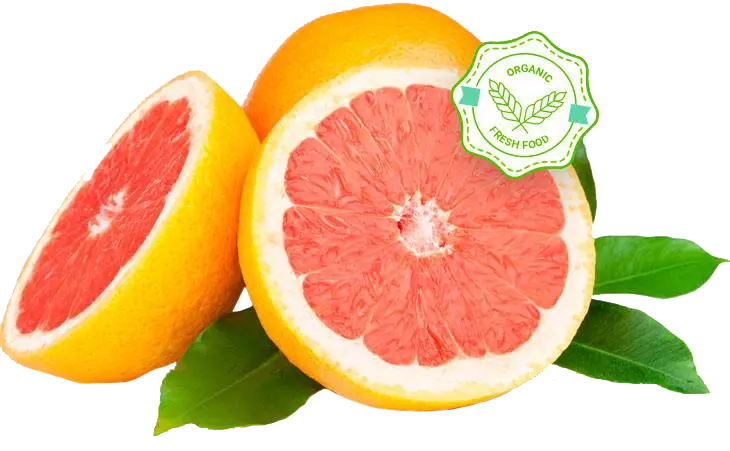
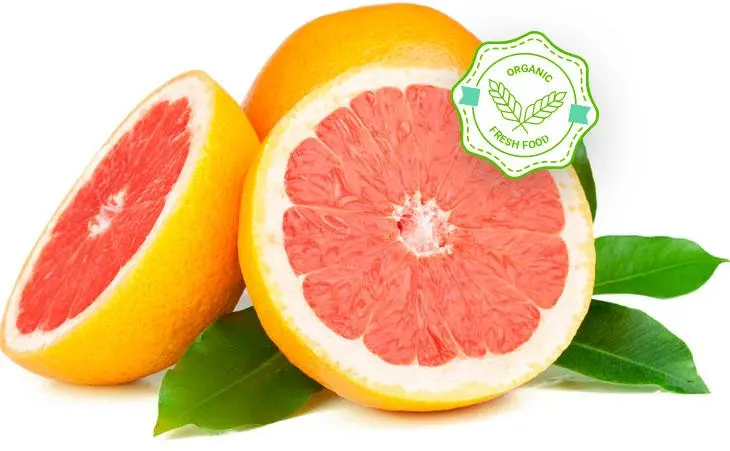
Buttons position correct

diff --git a/css/main.css b/css/main.css
@@ -1,9 +1,9 @@
 /* Fonts */
-@import 'fonts.css';
+@import "fonts.css";
 /* Variables */
-@import 'variables.css';
+@import "variables.css";
 /* Base*/
-@import 'base.css';
+@import "base.css";
 
 /* Styles */
 
@@ -37,7 +37,7 @@
 }
 
 .nav-bar-item::before {
-  content: '';
+  content: "";
   width: 6px;
   height: 6px;
   border-radius: 50%;
@@ -47,17 +47,17 @@
   left: 50%;
   transform: translateX(-50%);
   opacity: 0;
-  transition: .1s;
+  transition: 0.1s;
 }
 
 .nav-bar-item:hover::before,
 .nav-bar-item:focus::before {
   opacity: 1;
-  transition: .1s;
+  transition: 0.1s;
 }
 
 .nav-cart {
-  background: url('../img/nav-cart.png') 0 0/ cover no-repeat;
+  background: url("../img/nav-cart.png") 0 0 / cover no-repeat;
   width: 29px;
   height: 26px;
   border: none;
@@ -83,7 +83,6 @@
   display: flex;
   justify-content: center;
   align-items: center;
-
 }
 
 .nav-summ {
@@ -94,7 +93,7 @@
 }
 
 .nav-burger {
-  background: url('../img/nav-burger.png') 0 0 / cover no-repeat;
+  background: url("../img/nav-burger.png") 0 0 / cover no-repeat;
   width: 28px;
   height: 26px;
   border: none;
@@ -133,7 +132,7 @@
 }
 
 .hero-left-text::before {
-  content: '';
+  content: "";
   width: 70px;
   height: 1px;
   background-color: var(--colorDetails);
@@ -146,7 +145,7 @@
 
 .hero-picture::after {
   position: absolute;
-  content: '100% Guarantee';
+  content: "100% Guarantee";
   font-size: 1rem;
   font-style: italic;
   bottom: 12px;
@@ -177,14 +176,15 @@
   color: var(--colorHeroButton);
   text-transform: uppercase;
   font-weight: normal;
-  background: linear-gradient(to bottom, #ffffff 0%, #ffffff 100%) padding-box, linear-gradient(to top, #4FC3D8 0%, #B3D597 100%) border-box;
+  background: linear-gradient(to bottom, #ffffff 0%, #ffffff 100%) padding-box,
+    linear-gradient(to top, #4fc3d8 0%, #b3d597 100%) border-box;
   border: 5px solid transparent;
   cursor: pointer;
 }
 
 .hero-btn:hover,
 .hero-btn:focus {
-  background: linear-gradient(to top, #4FC3D8 0%, #B3D597 100%) border-box;
+  background: linear-gradient(to top, #4fc3d8 0%, #b3d597 100%) border-box;
 }
 
 .hero-btn-text-accent {
@@ -203,7 +203,7 @@
 }
 
 .hero-social::after {
-  content: '';
+  content: "";
   width: 1px;
   height: 70px;
   background-color: var(--colorDetails);
@@ -216,13 +216,13 @@
 }
 
 .hero-slider-slide {
-  background: url('../img/hero-slider.jpg') center center / cover no-repeat;
+  background: url("../img/hero-slider.jpg") center center / cover no-repeat;
   padding: 198px 0 330px 0;
   position: relative;
 }
 
 .hero-slider-slide::after {
-  content: '';
+  content: "";
   width: 250px;
   height: 40px;
   background-color: var(--colorBackground);
@@ -242,7 +242,6 @@
   z-index: 10;
   width: 100%;
 }
-
 
 .hero-slider-navigation {
   height: auto;
@@ -267,11 +266,12 @@
 
 .swiper-button-prev {
   border-radius: 999px 0 0 999px;
-  margin-right: 1px;
+  margin: 0 1px 0 0;
 }
 
 .swiper-button-next {
   border-radius: 0 999px 999px 0;
+  margin: 0;
 }
 
 .hero-lower {
@@ -286,7 +286,7 @@
 
 .hero-lower-mid {
   font-weight: normal;
-  margin: 0 4px
+  margin: 0 4px;
 }
 
 .hero-lower-right {
@@ -295,7 +295,7 @@
 }
 
 .hero-lower:after {
-  content: '';
+  content: "";
   width: 60px;
   height: 1px;
   color: var(--colorDetails);
@@ -319,7 +319,7 @@
 }
 
 .products-slider {
-  padding: 5px 15px
+  padding: 5px 15px;
 }
 
 .products-slider-slide {
@@ -361,8 +361,11 @@
 
 .about {
   padding: 125px 0 315px 0;
-  background:
-    linear-gradient(to bottom, var(--colorAboutBg) 0%, var(--colorAboutBg) 100%);
+  background: linear-gradient(
+    to bottom,
+    var(--colorAboutBg) 0%,
+    var(--colorAboutBg) 100%
+  );
   color: var(--colorAboutCardText);
   position: relative;
 }
@@ -382,8 +385,8 @@
 }
 
 .logo-top-pic::before {
-  content: '';
-  background: url('../img/logo-leave.png') 0 0 / cover no-repeat;
+  content: "";
+  background: url("../img/logo-leave.png") 0 0 / cover no-repeat;
   width: 19px;
   height: 31px;
   position: absolute;
@@ -402,7 +405,7 @@
 
 .about-subtitle::before,
 .about-subtitle::after {
-  content: '';
+  content: "";
   height: 1px;
   width: 45px;
   background-color: var(--colorDetails);
@@ -419,15 +422,12 @@
   transform: translate(calc(5px), -50%);
 }
 
-
 .about-description {
   font-family: Helvetica, sans-serif;
   font-size: 1rem;
   line-height: 2rem;
   margin-bottom: 0;
 }
-
-
 
 .about-card img {
   margin-bottom: 30px;
@@ -465,6 +465,7 @@
   bottom: -100px;
   left: 50%;
   transform: translateX(-50%);
+  mix-blend-mode: darken;
 }
 
 /* Fresh */
@@ -482,7 +483,6 @@
 
 .fresh-card-pic {
   margin: 0 0 70px 0;
-
 }
 
 .fresh-card-title {
@@ -492,11 +492,10 @@
   margin: 0 0 10px 0;
   position: relative;
   text-transform: lowercase;
-
 }
 
 .fresh-card-title::before {
-  content: '';
+  content: "";
   height: 1px;
   width: 20px;
   background-color: var(--colorFreshCardEl);
